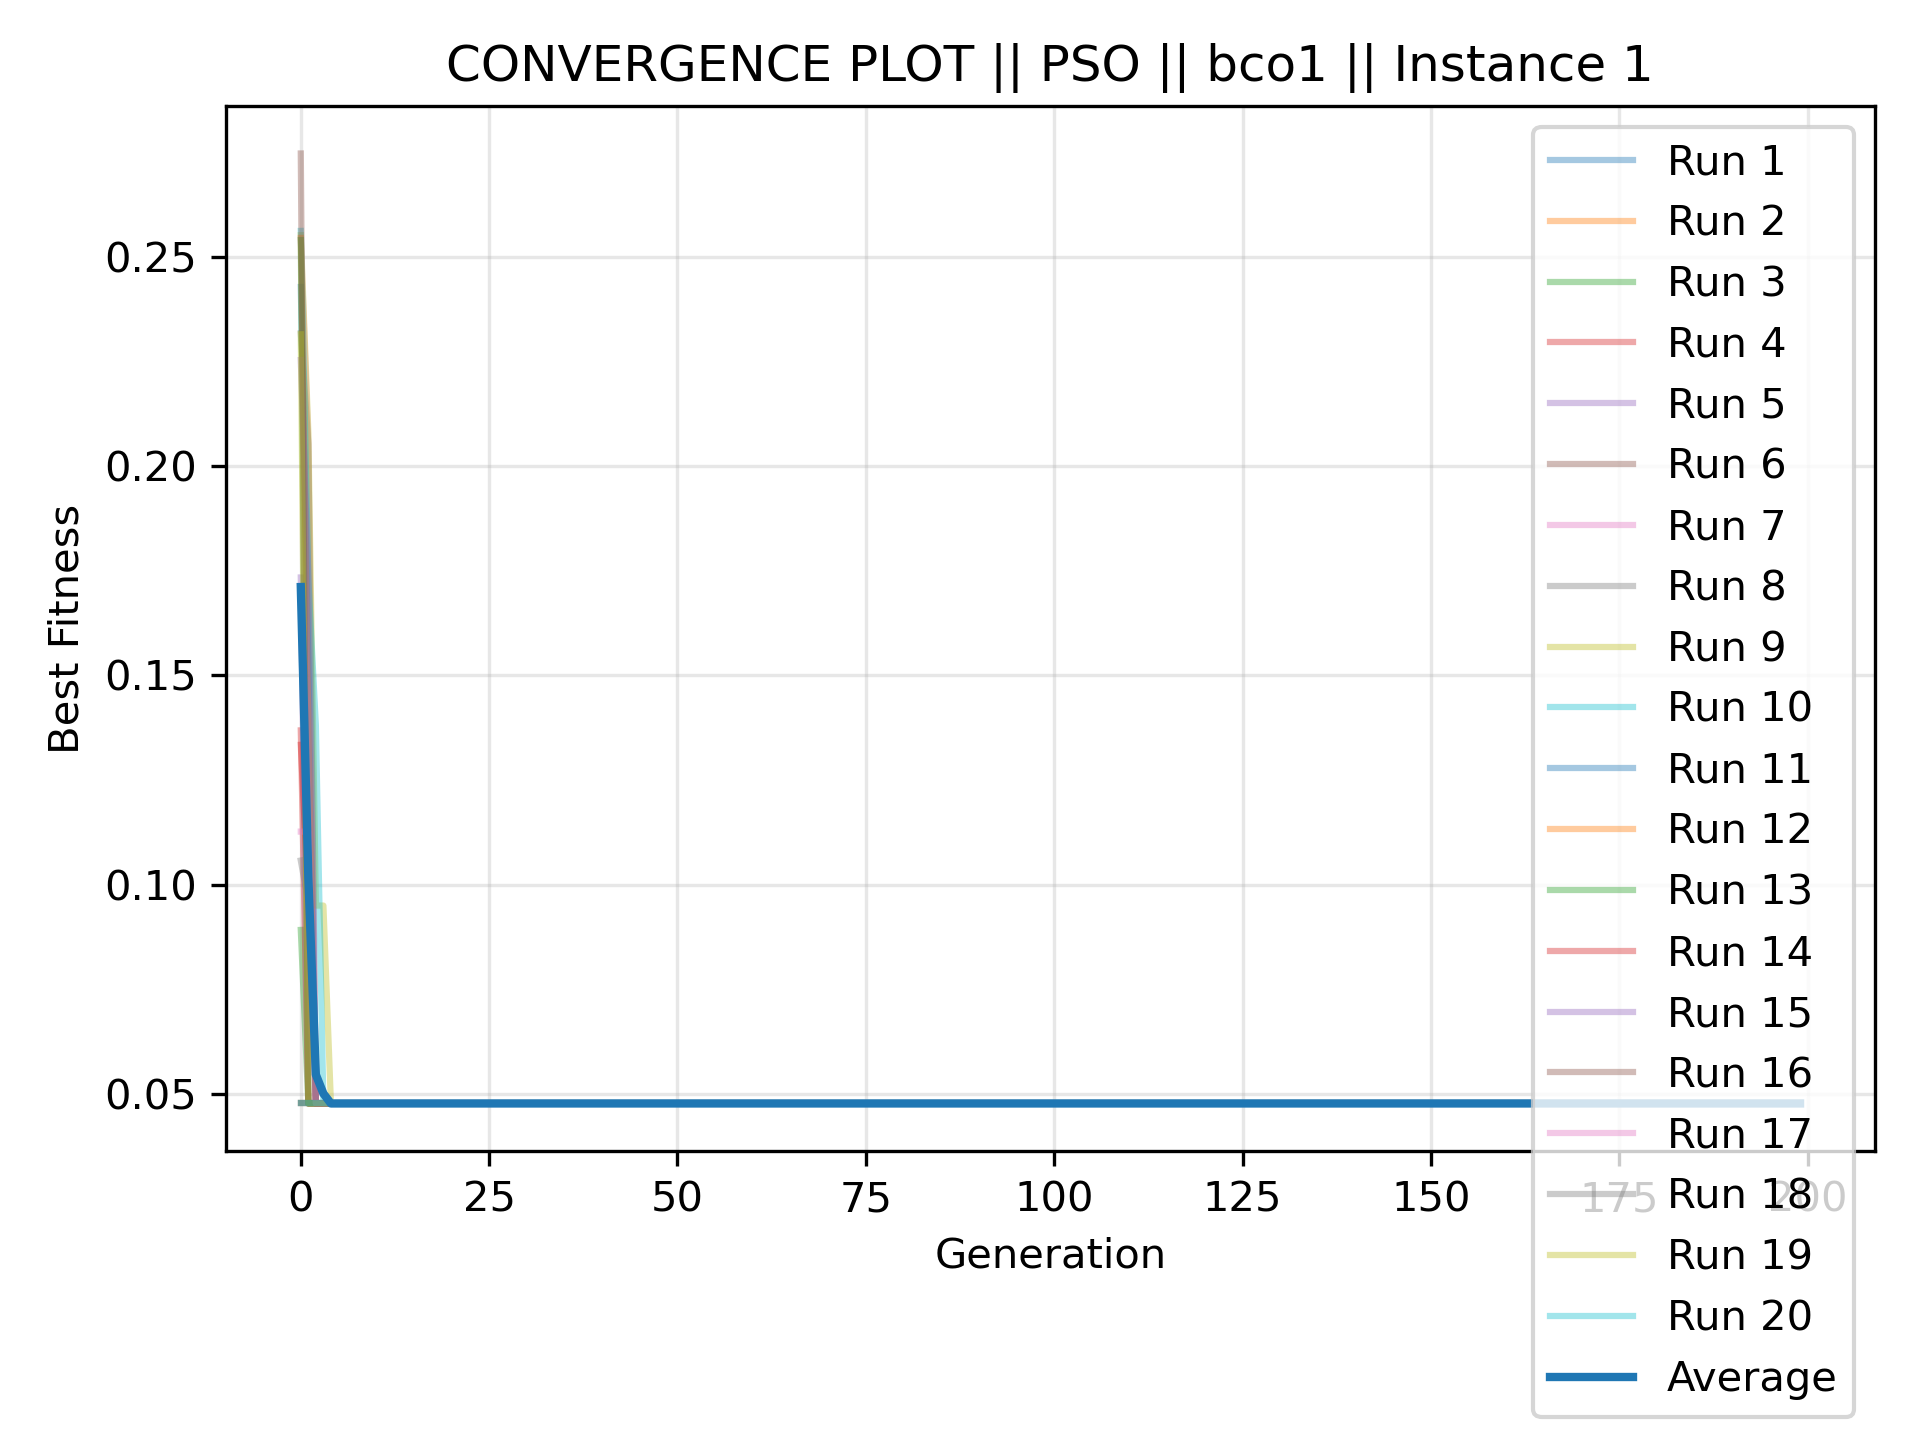
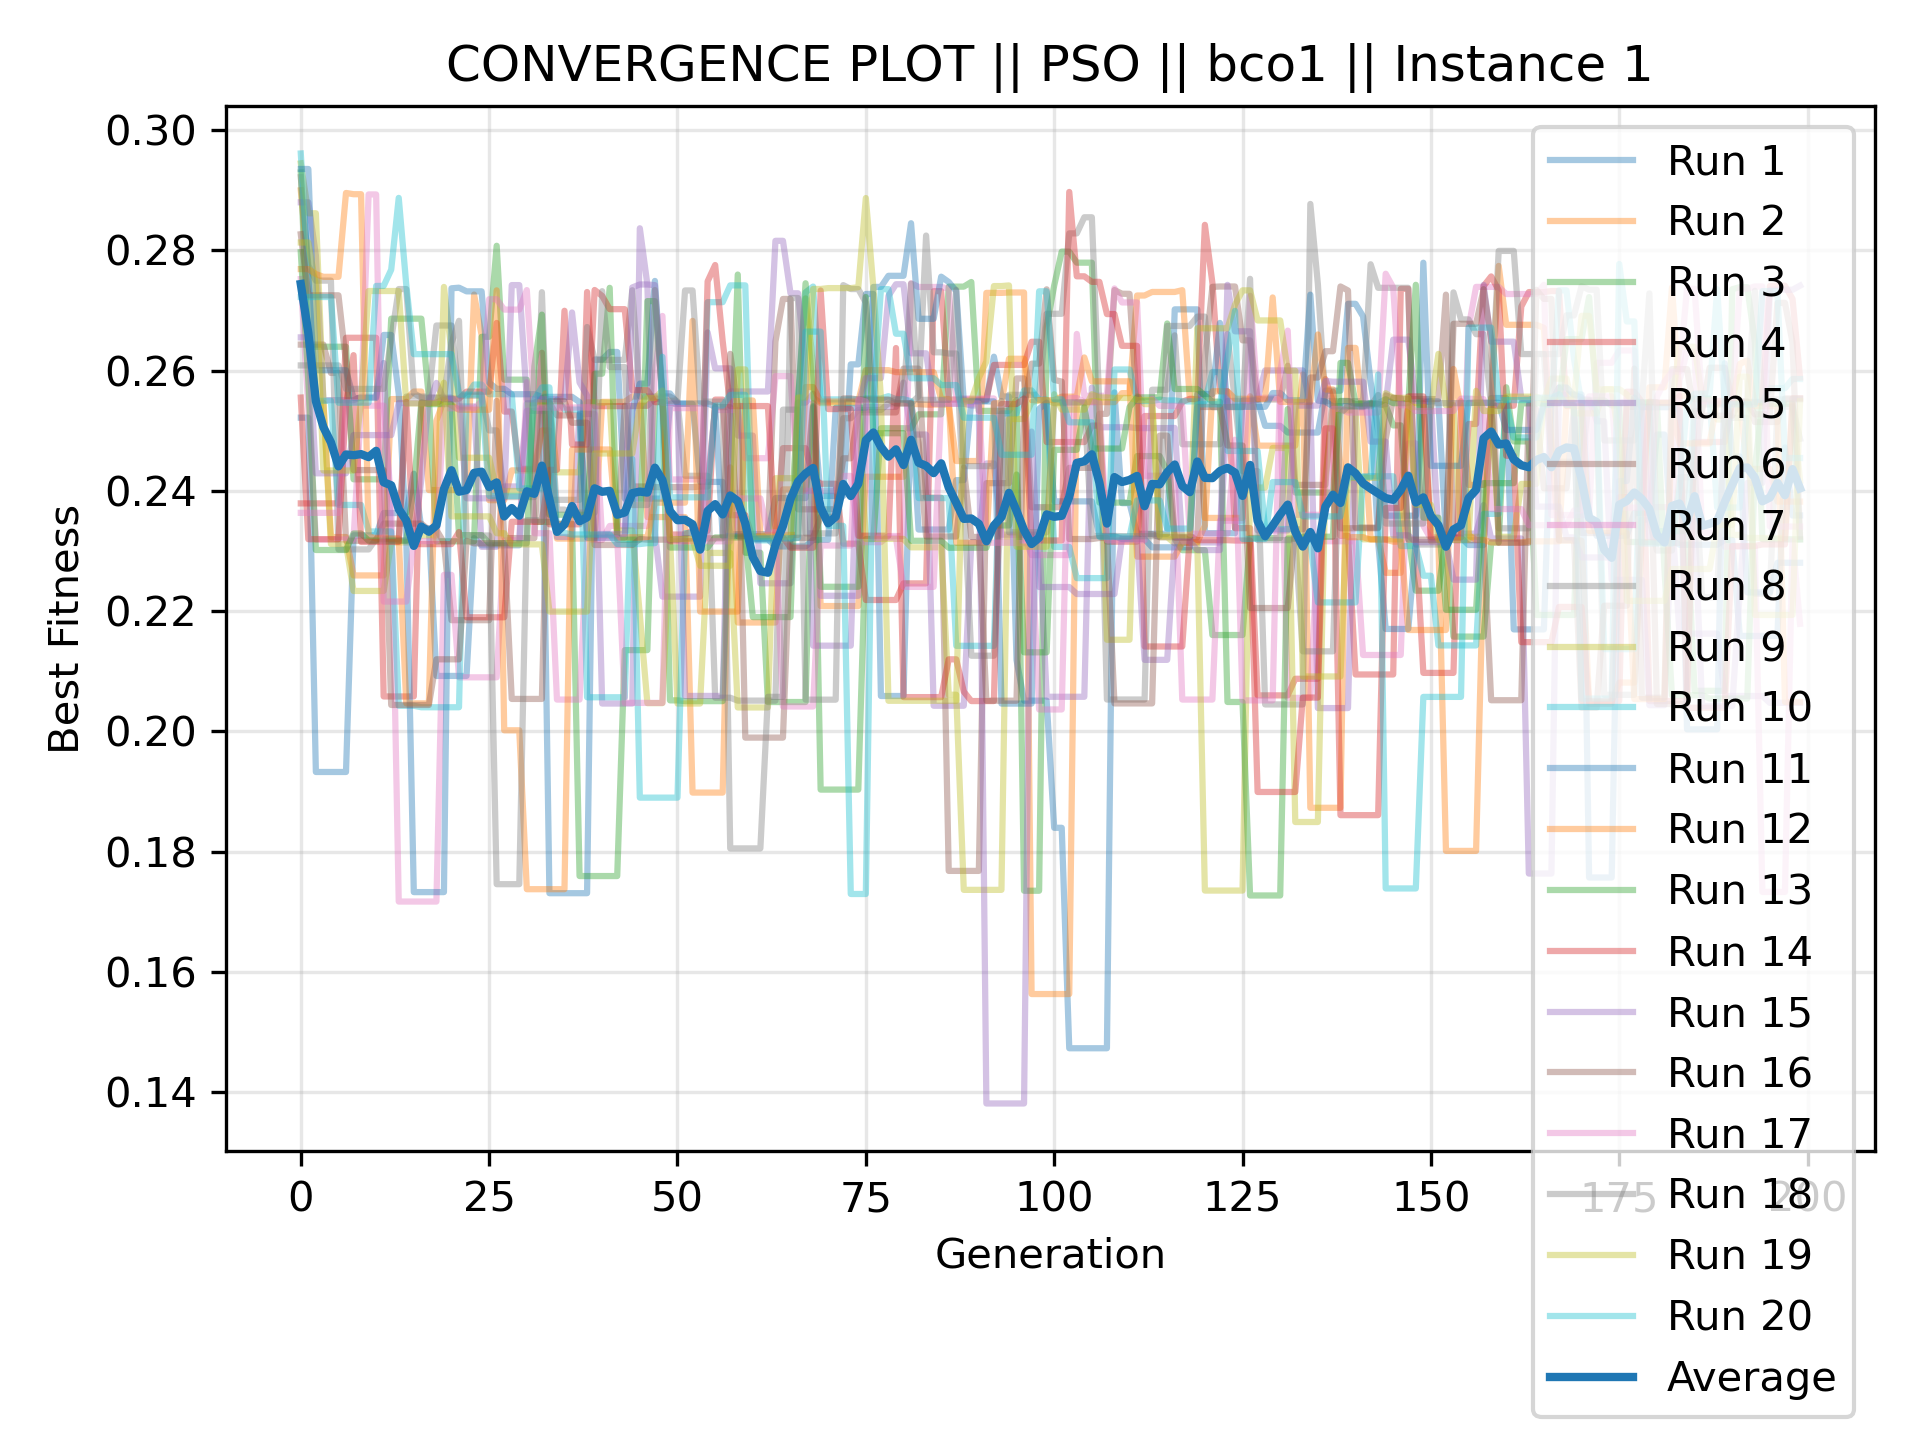
Update

diff --git a/Blockchain_Configuration_Optimization/ABC.py b/Blockchain_Configuration_Optimization/ABC.py
@@ -435,12 +435,12 @@ def solve_gap_file(filename):
 
         plt.xlabel("Generation")
         plt.ylabel("Best Fitness")
-        plt.title(f"CONVERGENCE PLOT || PSO || {os.path.splitext(os.path.basename(filename))[0]} || Instance {idx}")
+        plt.title(f"CONVERGENCE PLOT || ABC || {os.path.splitext(os.path.basename(filename))[0]} || Instance {idx}")
         plt.legend(loc='best')
         plt.grid(True, alpha=0.3)
         plt.tight_layout()
         os.makedirs("plots", exist_ok=True)
-        plt.savefig(f"plots/{os.path.splitext(os.path.basename(filename))[0]}_instance_{idx}_PSO_penalty_convergence.png", dpi=300)
+        plt.savefig(f"plots/{os.path.splitext(os.path.basename(filename))[0]}_instance_{idx}_ABC_convergence.png", dpi=300)
         plt.show()
 
         # Store results
